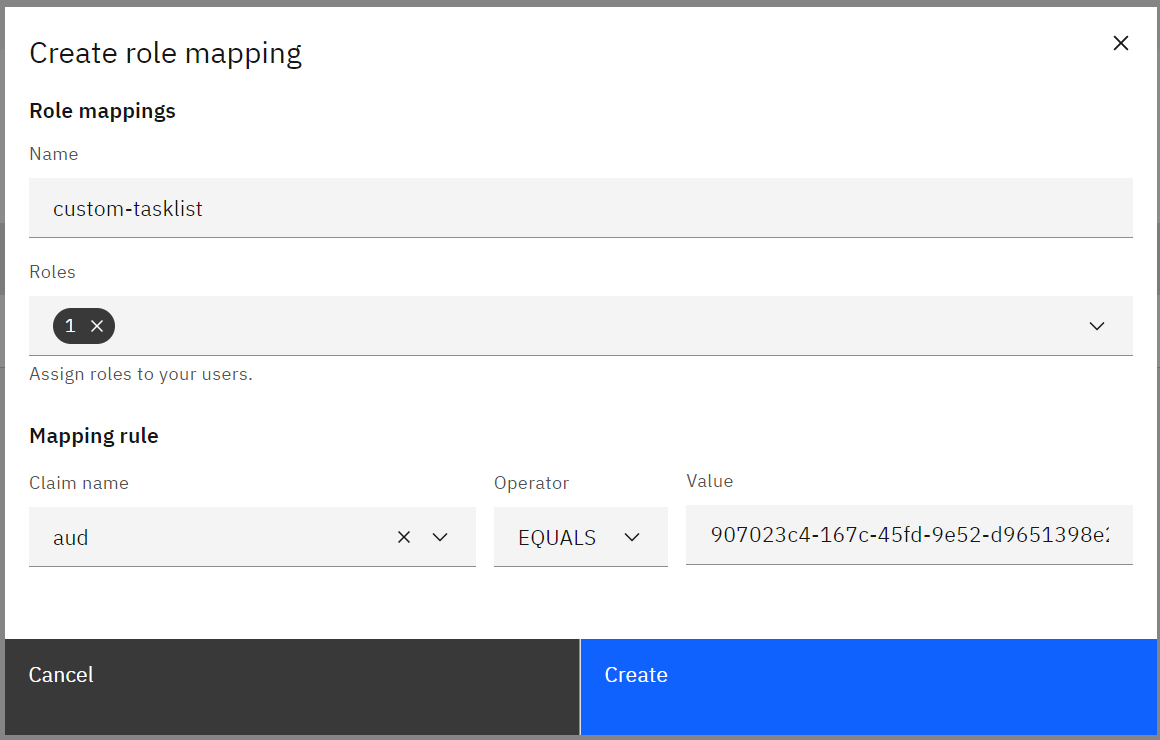
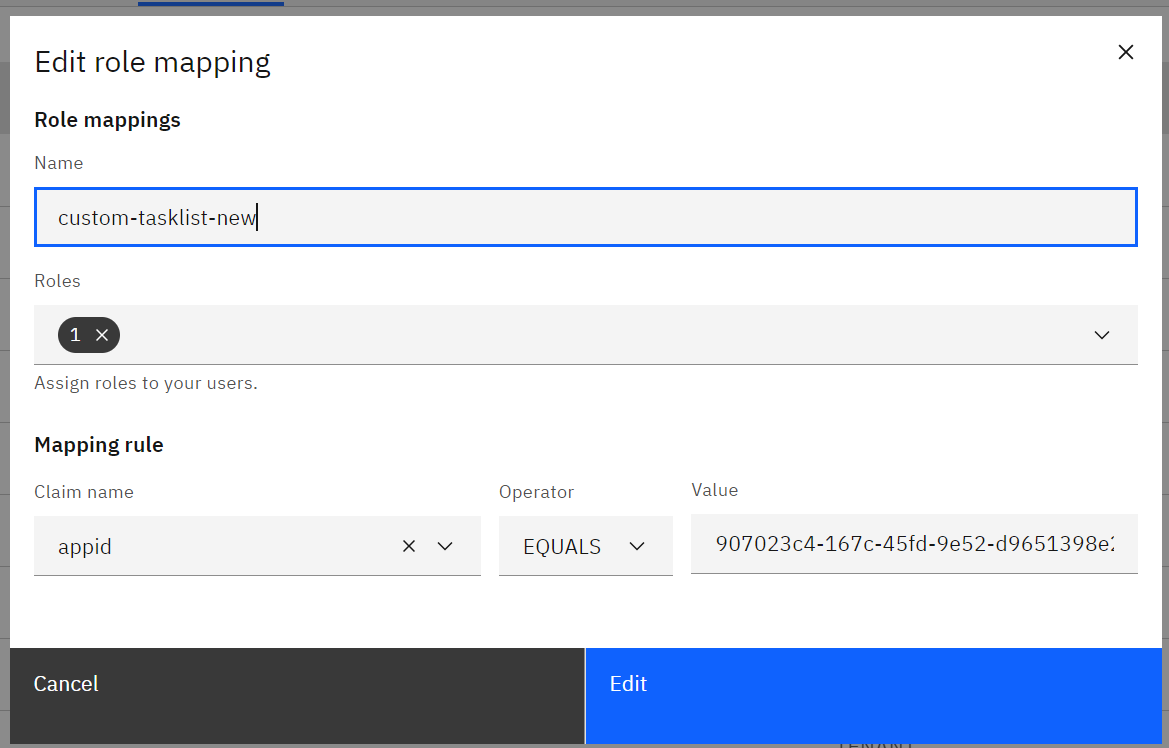
change screenshots and include testing steps

diff --git a/docs/entra/Entra.md b/docs/entra/Entra.md
@@ -13,12 +13,47 @@
 
 Allow access to tasklist api.
 ![role-mapping.png](role-mapping.png)
-
 ### Tenant Mapping
 Allow access to tenant
-![tenant-mapping.png](tenant-mapping.png)
 
-Same for Tasklist
+![custom-tasklist-to-tenant.png](custom-tasklist-to-tenant.png)
 
-![tasklist-to-tenant.png](tasklist-to-tenant.png)
+## Testing
 
+### Get Access Token
+
+```
+curl -X POST https://login.microsoftonline.com/<tenantId>/oauth2/v2.0/token \
+-H "Content-Type: application/x-www-form-urlencoded" \
+-d "grant_type=client_credentials" \
+-d "scope=<tasklist-app-id>/.default" \
+-d "client_id=your_client_id" \
+-d "client_secret=your_client_secret"
+```
+
+### Get Tasks
+
+```
+curl --location 'https://example.de/tasklist/v1/tasks/search' \
+--header 'Content-Type: application/json' \
+--header 'Authorization: Bearer token_from_call_a' \
+--data '{}'
+```
+
+### Assign Task to non-existing User
+
+```
+curl --location --request PATCH 'https://example.de/tasklist/v1/tasks/<aTaskId/assign' \
+--header 'Content-Type: application/json' \
+--header 'Authorization: Bearer token_from_call_a' \
+--data '{"assignee": "banabread"}'
+```
+
+### Complete Tasks
+
+```
+curl --location --request PATCH 'https://example.de/tasklist/v1/tasks/<aTaskId>/complete' \
+--header 'Content-Type: application/json' \
+--header 'Authorization: Bearer token_from_call_a' \
+--data '{}'
+```
